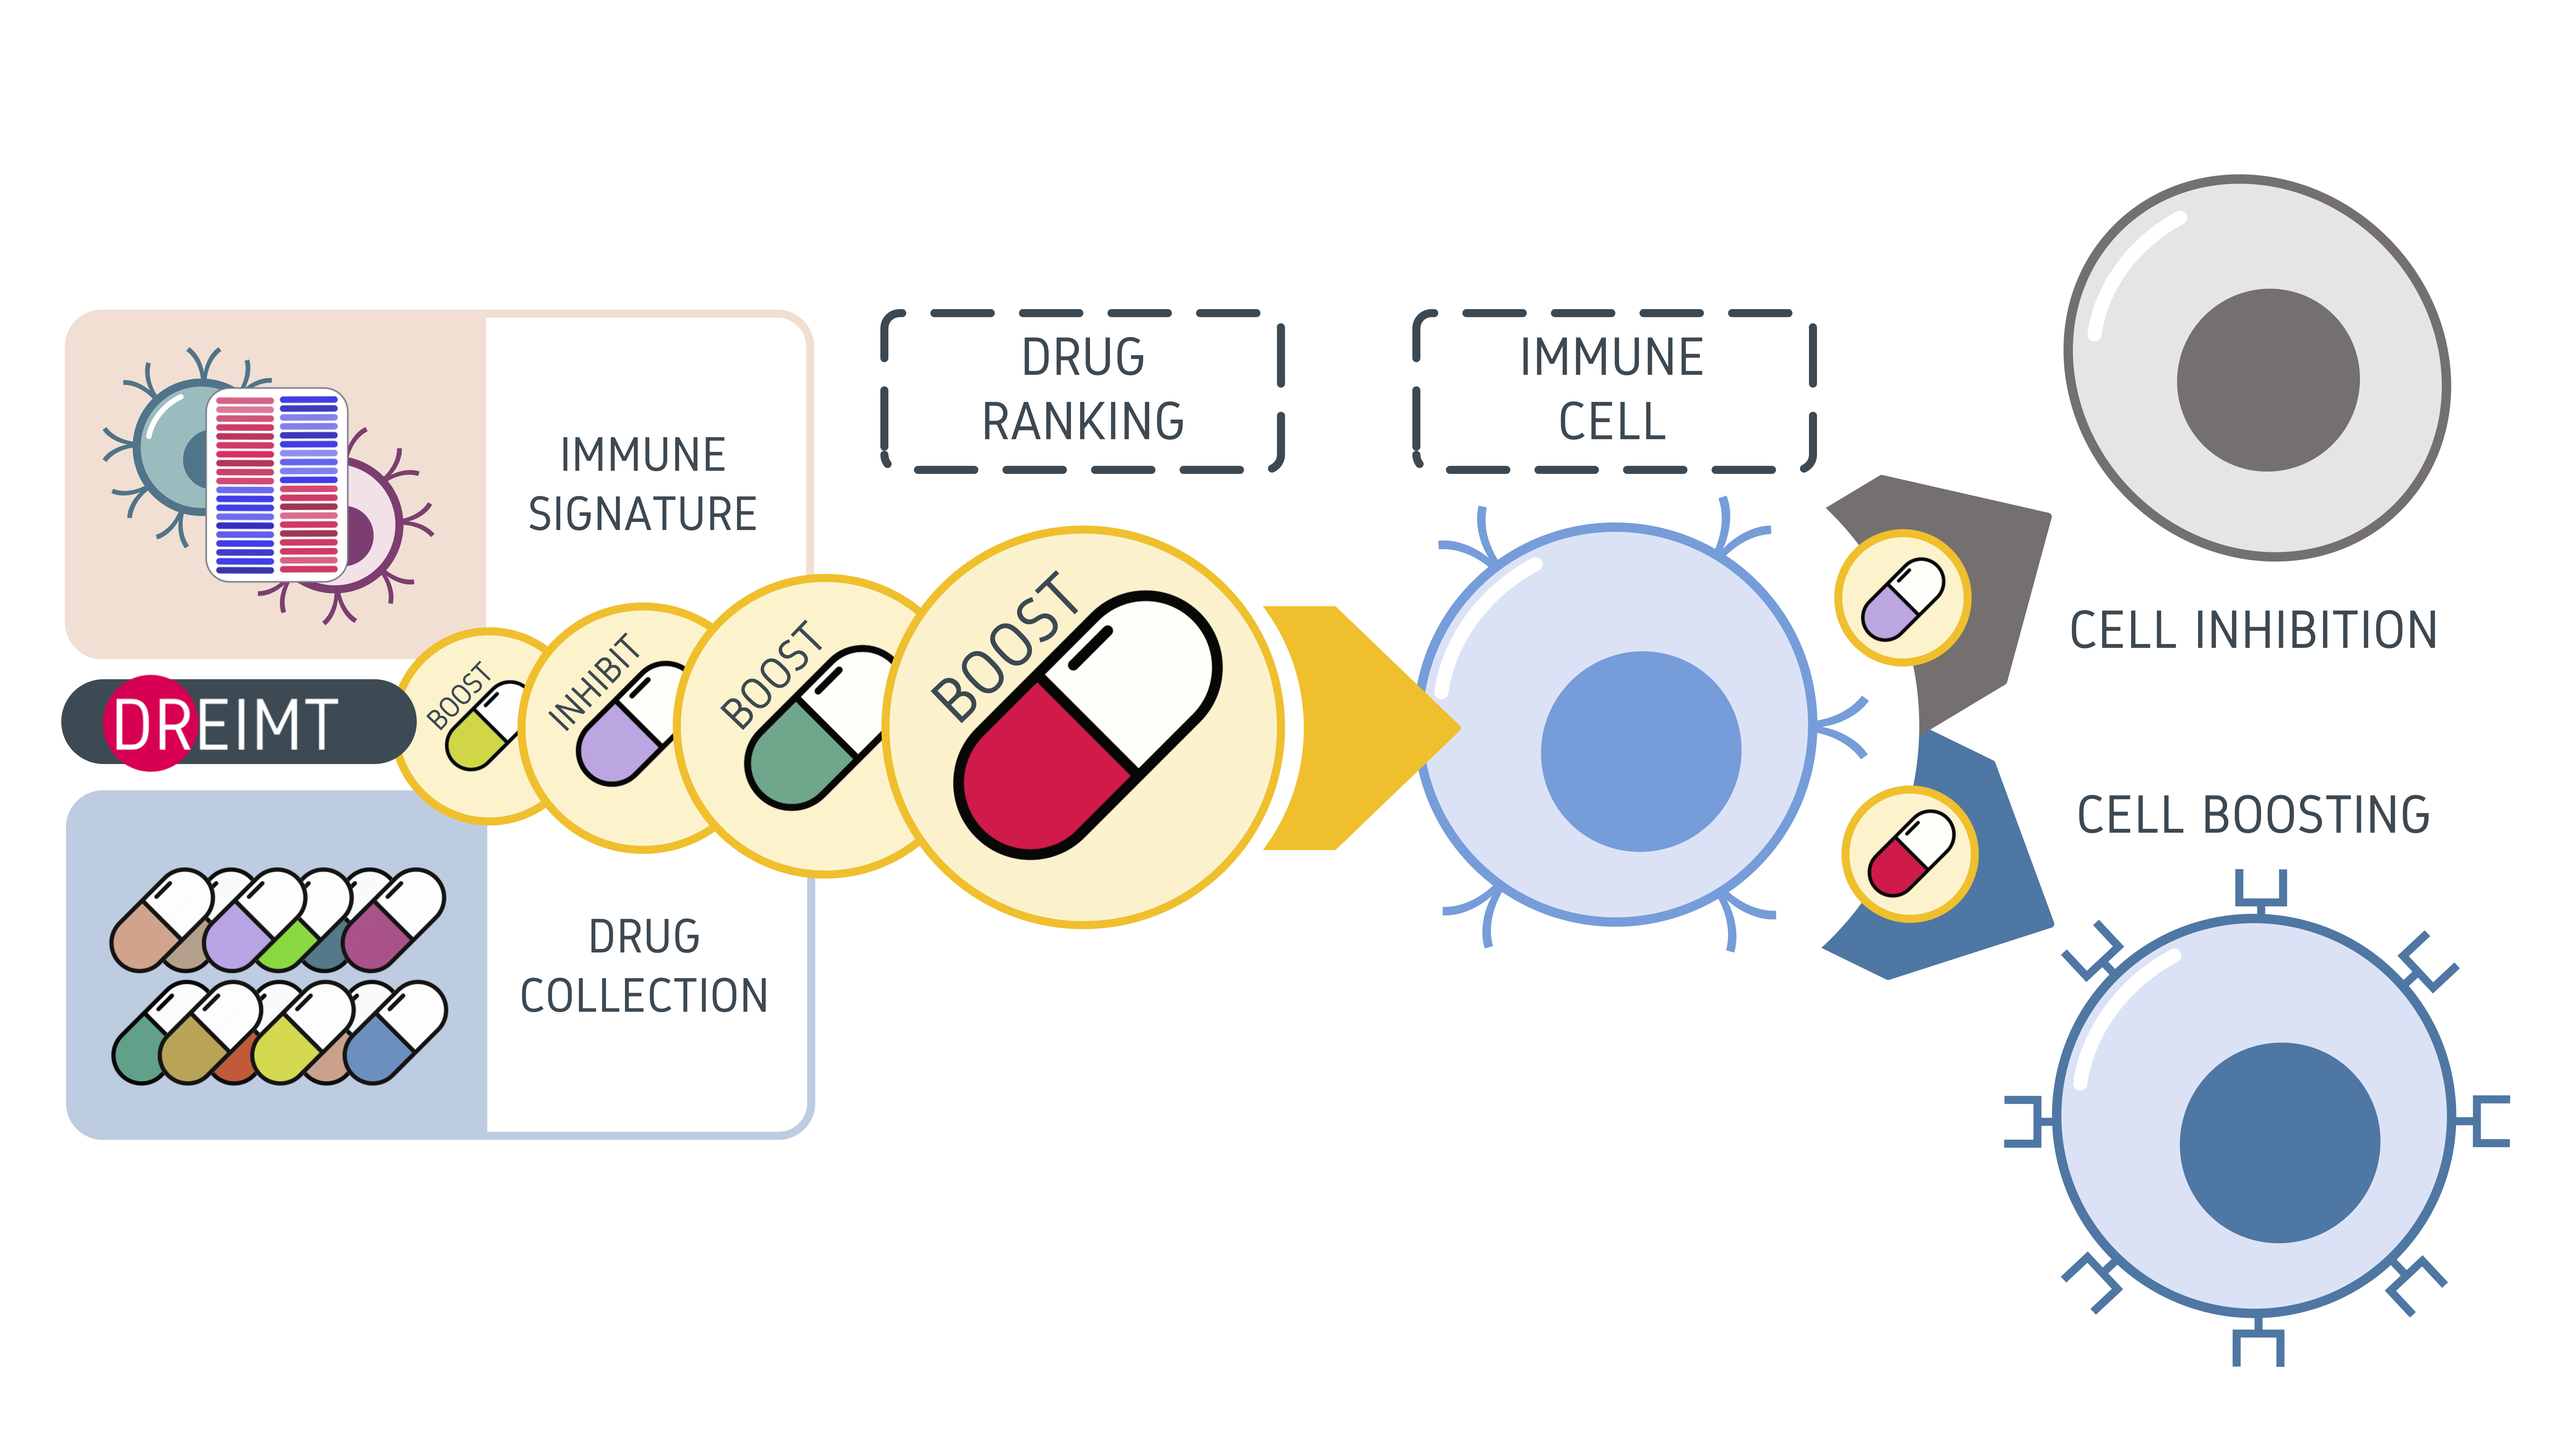
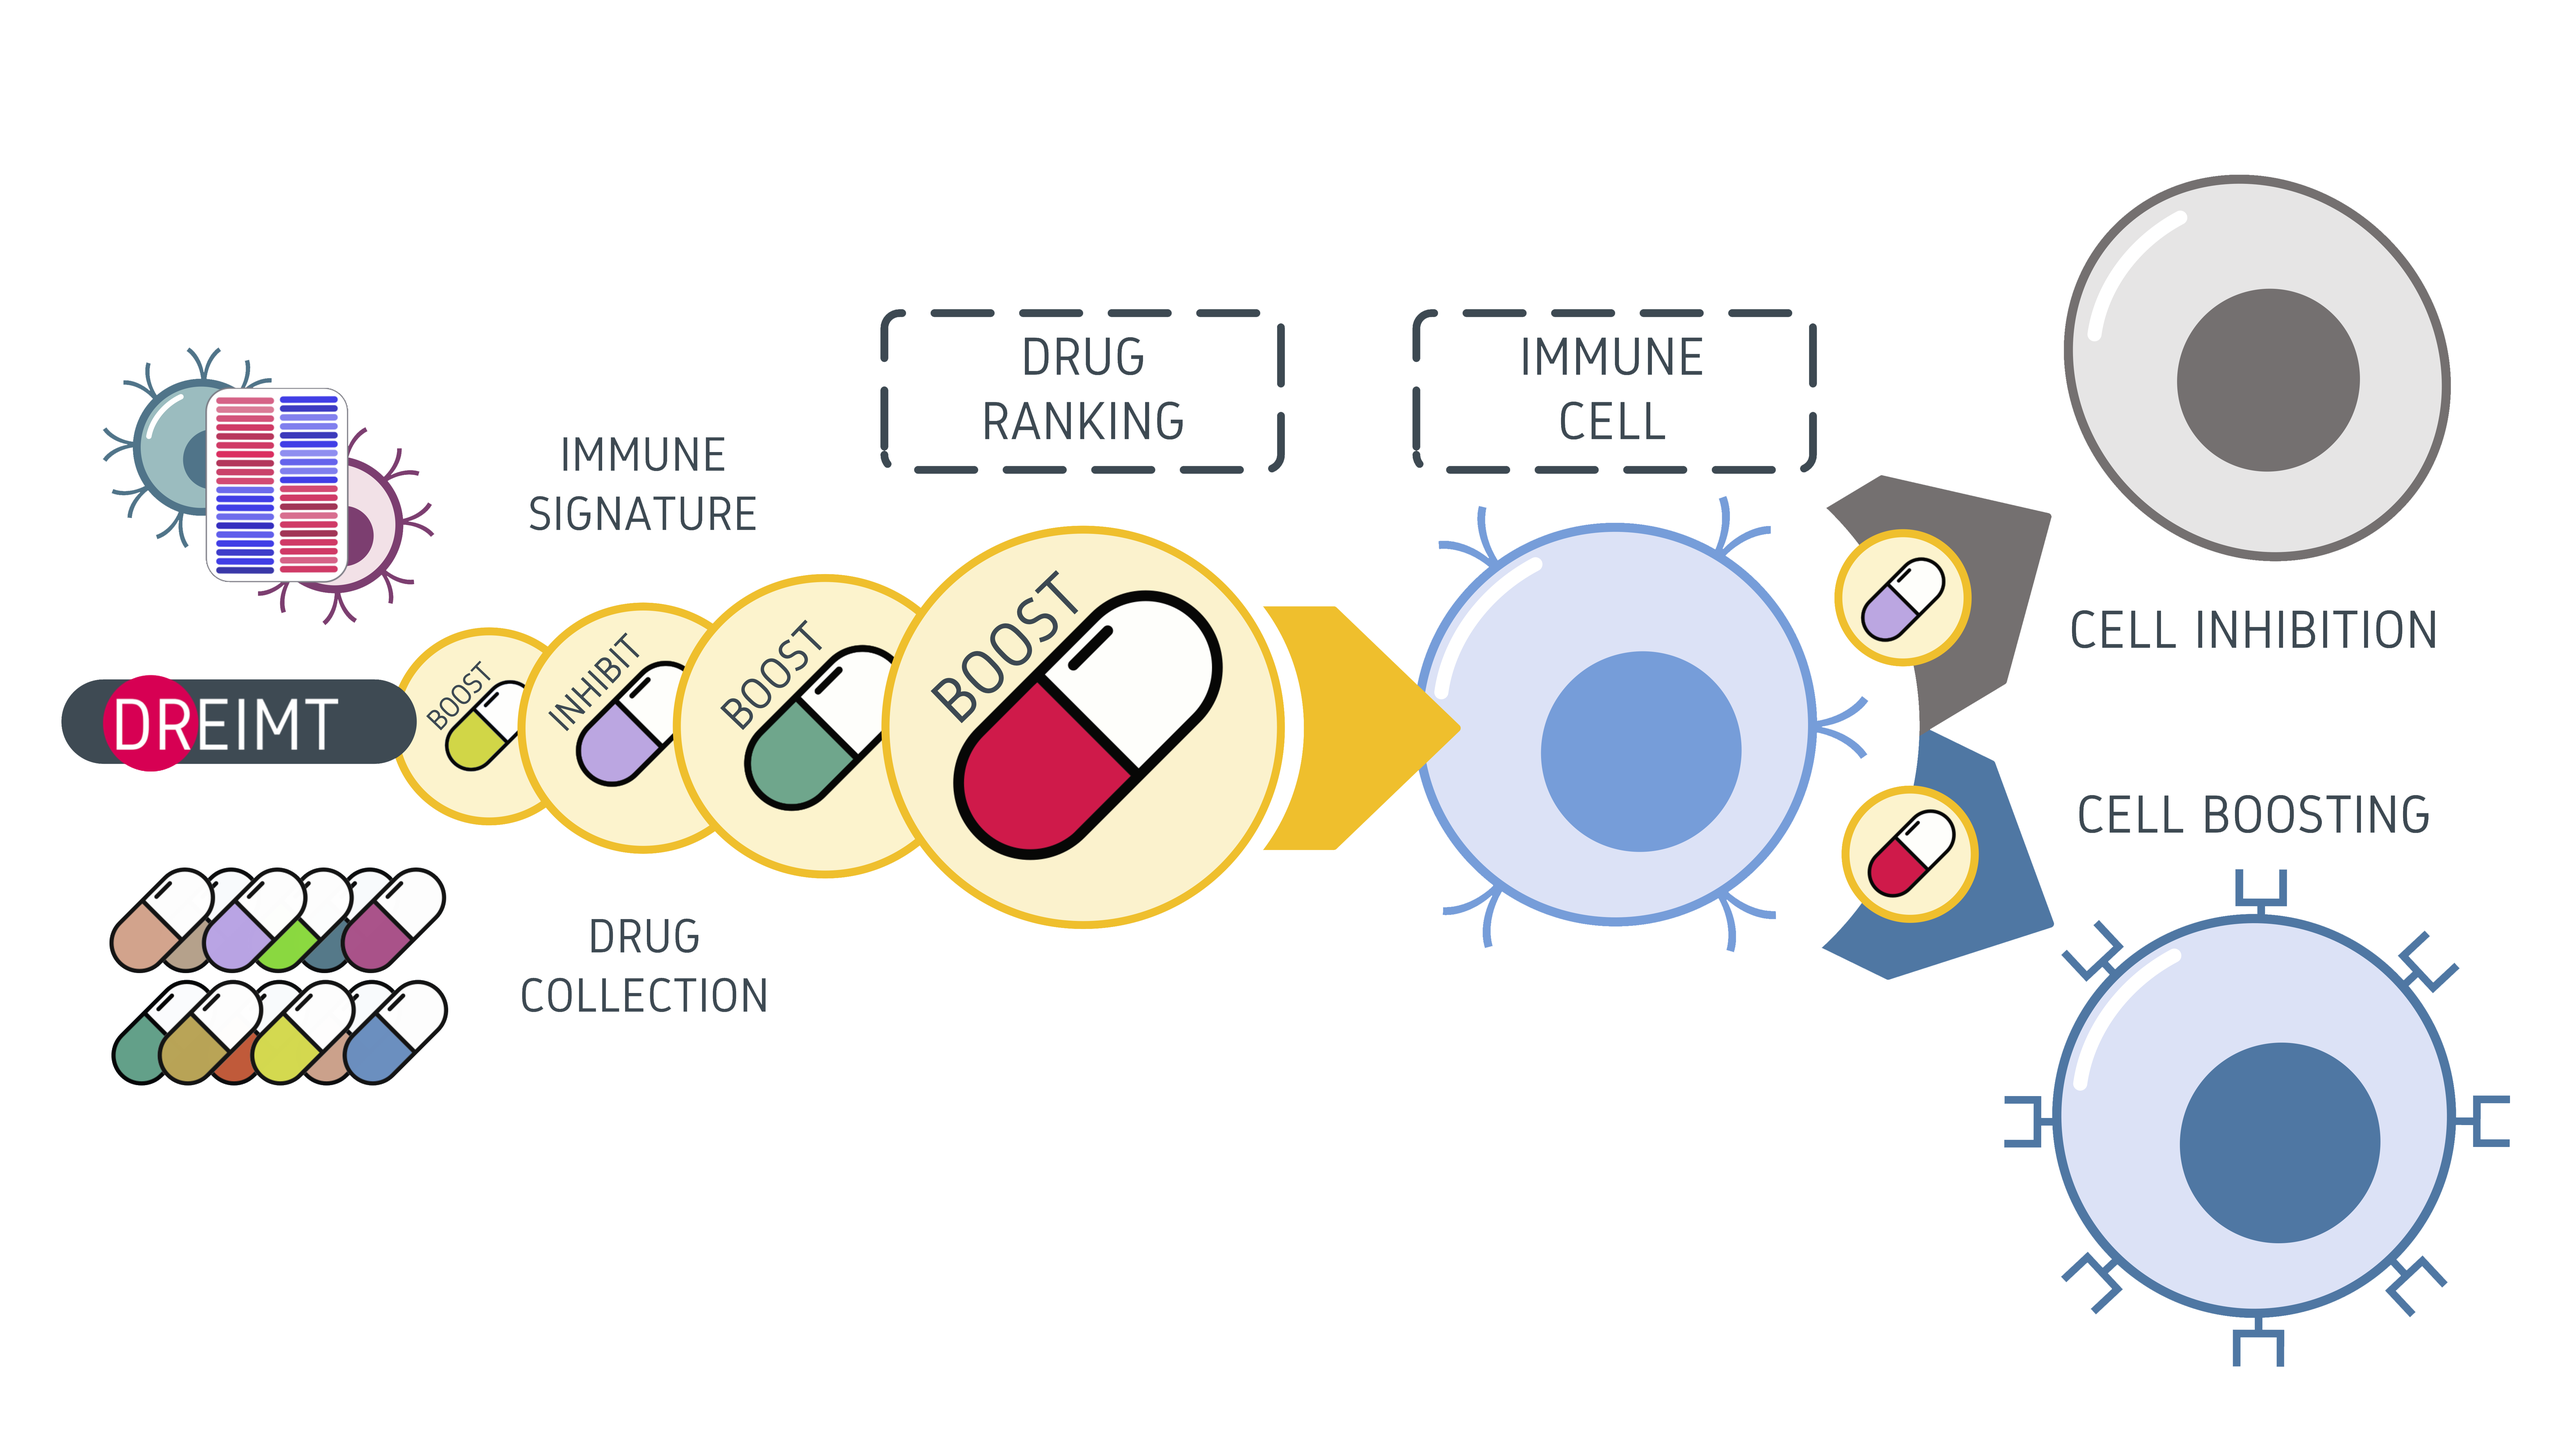
Replaces home image
This commit replaces the home image and removes the mat-card container to simply use
a div.

Changed region(s): [[0.0, 0.1867, 0.3125, 0.4667], [0.0, 0.5289, 0.3125, 0.8089], [0.3125, 0.2489, 0.3438, 0.3422]]

diff --git a/src/app/modules/main/components/main/main.component.html b/src/app/modules/main/components/main/main.component.html
@@ -19,45 +19,43 @@
   ~  along with this program. If not, see <http://www.gnu.org/licenses/>.
   -->
 
-<mat-card>
-  <mat-card-content id="main-content">
-    <div id="welcome">
-      <h2>Welcome to</h2>
-      <img src="../../../../../assets/images/logo.svg" alt="DREIMT"/>
-      <div>A tool for immune modulation drug prioritization</div>
-      <button mat-button (click)="onNavigateToDrugPrioritization()"
-              matTooltip="Opens a query panel to get drug prioritizations for a custom signature or geneset.">
-        Drug prioritization
-      </button>
-      <button mat-button (click)="onNavigateToSignaturesComparison()"
-              matTooltip="Opens a query panel to find similar signatures or geneset in the database to a custom signature or geneset by calculating the Jaccard index.">
-        Signatures comparison
-      </button>
-      <button mat-button (click)="onNavigateToDatabase()"
-              matTooltip="Opens the view to explore the database of calculated drug prioritizations.">
-        Database
-      </button>
-    </div>
+<div id="main-content">
+  <div id="welcome">
+    <h2>Welcome to</h2>
+    <img src="../../../../../assets/images/logo.svg" alt="DREIMT"/>
+    <div>A tool for immune modulation drug prioritization</div>
+    <button mat-button (click)="onNavigateToDrugPrioritization()"
+            matTooltip="Opens a query panel to get drug prioritizations for a custom signature or geneset.">
+      Drug prioritization
+    </button>
+    <button mat-button (click)="onNavigateToSignaturesComparison()"
+            matTooltip="Opens a query panel to find similar signatures or geneset in the database to a custom signature or geneset by calculating the Jaccard index.">
+      Signatures comparison
+    </button>
+    <button mat-button (click)="onNavigateToDatabase()"
+            matTooltip="Opens the view to explore the database of calculated drug prioritizations.">
+      Database
+    </button>
+  </div>
 
-    <div id="what-is-dreimt">
-      <h3>What is DREIMT?</h3>
-      <p>
-        DREIMT is a bioinformatics tool for hypothesis generation and <strong>prioritization of drugs capable of
-        modulating immune cells activity</strong>. The current version integrates
-        <strong>{{stats.signaturesCount}}</strong> immune cell signatures and <strong>{{stats.drugCount}}</strong>
-        compound profiles.
-      </p>
+  <div id="what-is-dreimt">
+    <h3>What is DREIMT?</h3>
+    <p>
+      DREIMT is a bioinformatics tool for hypothesis generation and <strong>prioritization of drugs capable of
+      modulating immune cells activity</strong>. The current version integrates
+      <strong>{{stats.signaturesCount}}</strong> immune cell signatures and <strong>{{stats.drugCount}}</strong>
+      compound profiles.
+    </p>
 
-      <p>
-        DREIMT accepts users own immune cell signature for drug prioritization.
-      </p>
-      <mat-nav-list role="navigation" dense>
-        <a mat-list-item [routerLink]="sample.route" [queryParams]="sample.queryParams" *ngFor="let sample of SAMPLES">{{sample.title}}</a>
-      </mat-nav-list>
-    </div>
+    <p>
+      DREIMT accepts users own immune cell signature for drug prioritization.
+    </p>
+    <mat-nav-list role="navigation" dense>
+      <a mat-list-item [routerLink]="sample.route" [queryParams]="sample.queryParams" *ngFor="let sample of SAMPLES">{{sample.title}}</a>
+    </mat-nav-list>
+  </div>
 
-    <div id="home-image-container">
-      <img src="../../../../../../../assets/images/home-dreimt.png" alt="How it works?">
-    </div>
-  </mat-card-content>
-</mat-card>
+  <div id="home-image-container">
+    <img src="../../../../../../../assets/images/home-dreimt.png" alt="How it works?">
+  </div>
+</div>

diff --git a/src/app/modules/database/components/database-table-filters/database-table-filters.component.html b/src/app/modules/database/components/database-table-filters/database-table-filters.component.html
@@ -24,7 +24,7 @@
                         [maxOptions]="maxOptions"></app-filter-field>
 
       <app-filter-field class="basic-filter-drug"
-                        label="Drug source name"
+                        label="Drug name"
                         [options]="drugCommonNameFieldFilter.options"
                         [(filter)]="drugCommonNameFieldFilter.filter"
                         (filterChange)="updateFilterValues()"
@@ -77,7 +77,7 @@
                           [debounceTime]="debounceTime"
                           [maxOptions]="maxOptions"></app-filter-field>
 
-        <app-filter-field label="Source name"
+        <app-filter-field label="Drug name"
                           [options]="drugCommonNameFieldFilter.options"
                           [(filter)]="drugCommonNameFieldFilter.filter"
                           (filterChange)="updateFilterValues()"
@@ -91,7 +91,7 @@
                           [debounceTime]="debounceTime"
                           [maxOptions]="maxOptions"></app-filter-field>
 
-        <app-filter-field label="Status"
+        <app-filter-field label="Drug status"
                           [options]="drugStatusFieldFilter.options"
                           [optionLabelMapper]="mapDrugStatus"
                           [(filter)]="drugStatusFieldFilter.filter"
